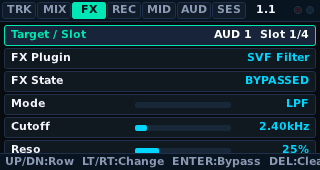
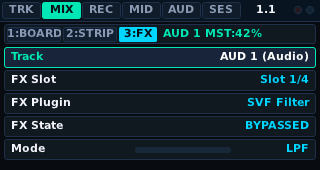
Update v0.4.2 hardware screenshots (including MIX 1:BOARD & Help overlay) and docs

diff --git a/MANUAL.md b/MANUAL.md
@@ -30,8 +30,10 @@
 | `K` | Toggle **Metronome Click** sound (`ON` / `OFF`) globally |
 | `L` | Toggle Loop mode |
 | `BACKSPACE` | Rewind playhead to Bar `1.1` |
-| **Hold `Sym+M` (`?`)** | Show context-sensitive **Help overlay** with all commands for the current view |
+| **Hold/Tap `Alt+M` (`?`) or `H`** | Show context-sensitive 2-column **Help overlay** with all commands for the current view |
 | **Hold `ESC` (800 ms)** | Auto-save session cleanly and exit to `APPLaunch` |
+
+![Context-Sensitive Help Overlay](docs/images/tab-help.png)
 
 ### Alesis V61 MIDI Controller (Dual-Layer Knobs)
 On startup, DAW Zero initializes the V61 toggle buttons to **`1: ON`**, **`2: OFF`**, **`3: OFF`**, **`4: OFF`** and keeps LEDs synchronized with transport state:
@@ -77,6 +79,10 @@ Switch between the 4 subtabs anytime on `TRK` using **`V`**, **`Q`/`E`**, or **V
 
 ### Tab 2: `MIX` — 3 Subtabs (`1:BOARD` | `2:STRIP` | `3:FX`)
 
+| `1:BOARD` — 8-Ch Vertical Mixer | `2:STRIP` — Channel Strip | `3:FX` — Modular DSP Chain |
+|:---:|:---:|:---:|
+| ![MIX BOARD](docs/images/tab-mix-board.png) | ![MIX STRIP](docs/images/tab-mix.png) | ![MIX FX](docs/images/tab-fx.png) |
+
 Switch between subtabs anytime on `MIX` using **`V`**, **`Q`/`E`**, or **V61 Knob 4 (`NAV` mode)**:
 
 - **`1:BOARD` (8-Channel Vertical Mixer Console):**
@@ -85,9 +91,6 @@ Switch between subtabs anytime on `MIX` using **`V`**, **`Q`/`E`**, or **V61 Kno
   - Select channel linearly (`AUD 1` → `MID 2`, non-wrapping) with **`Z`/`C`** or **Knob 2**; adjust **Volume** with **`F`/`X`** or **Knob 3**; adjust **Pan** with **`U`/`I`**; toggle **`M` / `S` / `A`**; press **`ENTER`** to jump straight into **`3:FX`** for that channel.
 
 - **`2:STRIP` (Channel Strip & External Input Routing):**
-
-  ![MIX Tab](docs/images/tab-mix.png)
-
   Select any track linearly from `AUD 1` to `MID 2` (non-wrapping) on row 1 (`Z`/`C` or Knob 3), then configure:
   - **Volume** (`0%` – `150%`) and **Pan** (`L100` – `C` – `R100`).
   - **For Audio Tracks (`AUD 1–6`):**
@@ -99,9 +102,6 @@ Switch between subtabs anytime on `MIX` using **`V`**, **`Q`/`E`**, or **V61 Kno
   - **Master Vol:** Overall stereo master bus level (with built-in soft limiter).
 
 - **`3:FX` (Modular Filter & Effects Chain):**
-
-  ![FX Tab](docs/images/tab-fx.png)
-
   - **Row 0 (`Track`):** Select target track (`AUD 1–6` for 4 insert slots `1/4–4/4`, or `MID 1–2` to target the **Master Bus** `1/2–2/2`).
   - **Row 1 (`FX Slot`):** `Z/C` switches slots.
   - **Row 2 (`FX Plugin`):** `Z/C` cycles through all built-in and external `.so` plugins:

diff --git a/README.md b/README.md
@@ -28,8 +28,8 @@ Record external instruments over USB audio interfaces (e.g., M-Audio M-Track Duo
 | `TRK → CTRL` — 8-Track Console | `TRK → TIME` — Multitrack Timeline | `TRK → WAVE` — Waveform & Ruler |
 |:---:|:---:|:---:|
 | ![TRK CTRL](docs/images/tab-trk-ctrl.png) | ![TRK TIME](docs/images/tab-trk-time.png) | ![TRK WAVE](docs/images/tab-trk-wave.png) |
-| **`TRK → CLIP` — 4 Subtracks (`C1–C4`)** | **`MIX → 2:STRIP` — Channel Strip** | **`MIX → 3:FX` — Modular DSP Chain** |
-| ![TRK CLIP](docs/images/tab-trk-clip.png) | ![MIX Tab](docs/images/tab-mix.png) | ![FX Tab](docs/images/tab-fx.png) |
+| **`TRK → CLIP` — 4 Subtracks (`C1–C4`)** | **`MIX → 1:BOARD` — 8-Ch Mixer** | **`MIX → 3:FX` — Modular DSP Chain** |
+| ![TRK CLIP](docs/images/tab-trk-clip.png) | ![MIX BOARD](docs/images/tab-mix-board.png) | ![FX Tab](docs/images/tab-fx.png) |
 | **`MID → 1:ROUT` — Hosted Inst & Bounce** | **`MID → 2:INST` — Live Inst Controls** | **`SES → 2:MON` — Real-Time Monitor** |
 | ![MID ROUT](docs/images/tab-mid-rout.png) | ![MID INST](docs/images/tab-mid-inst.png) | ![SES MON](docs/images/tab-ses-mon.png) |
 
